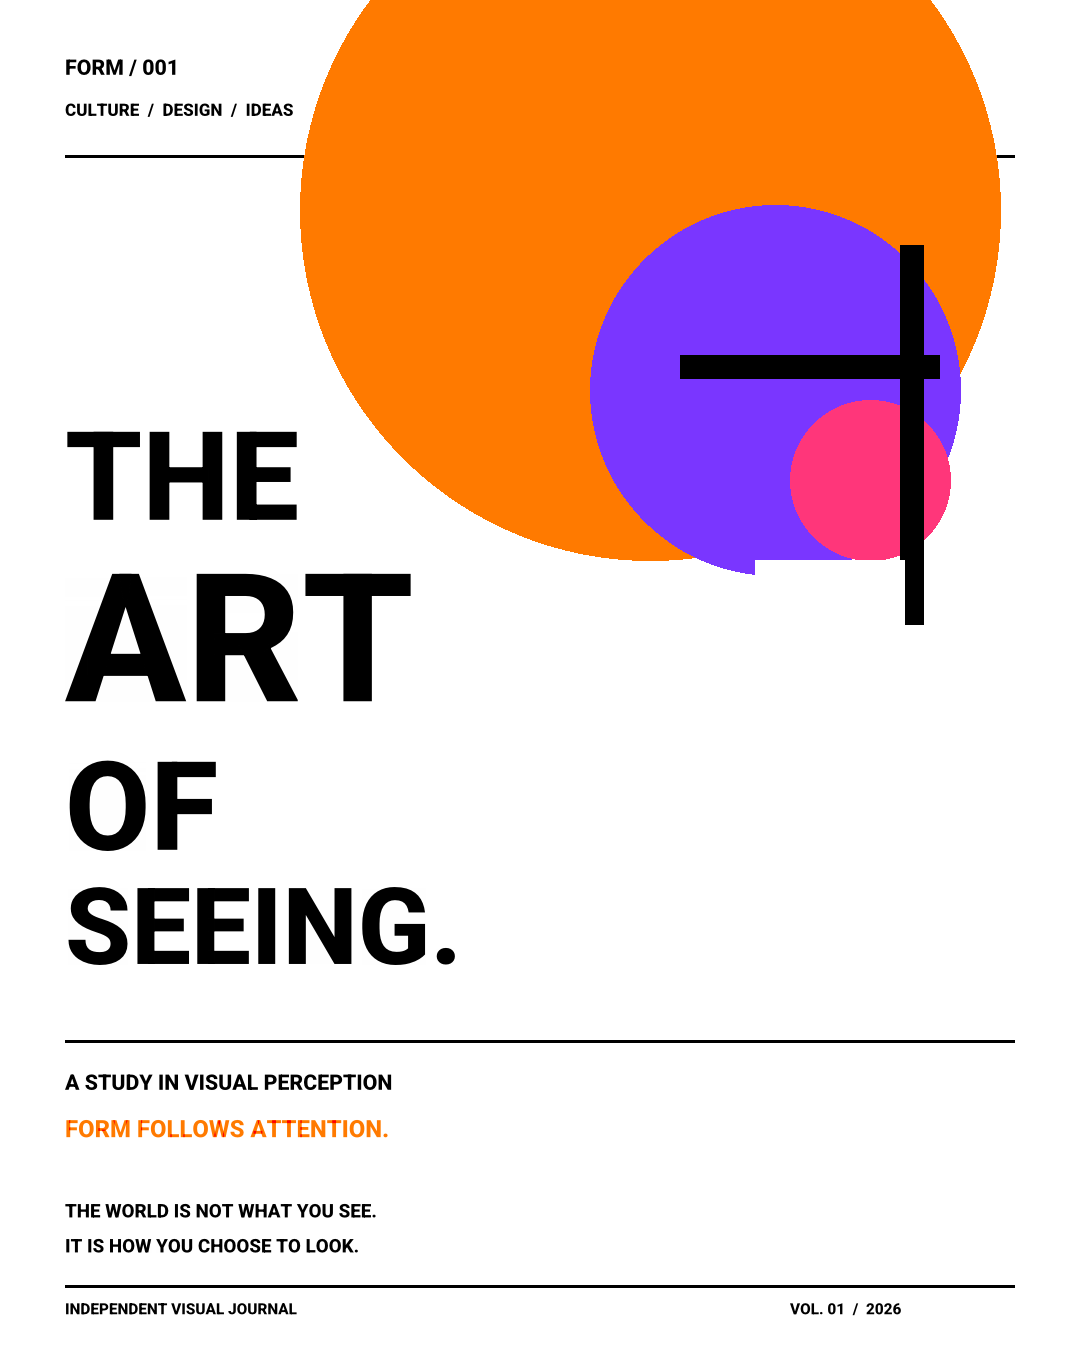
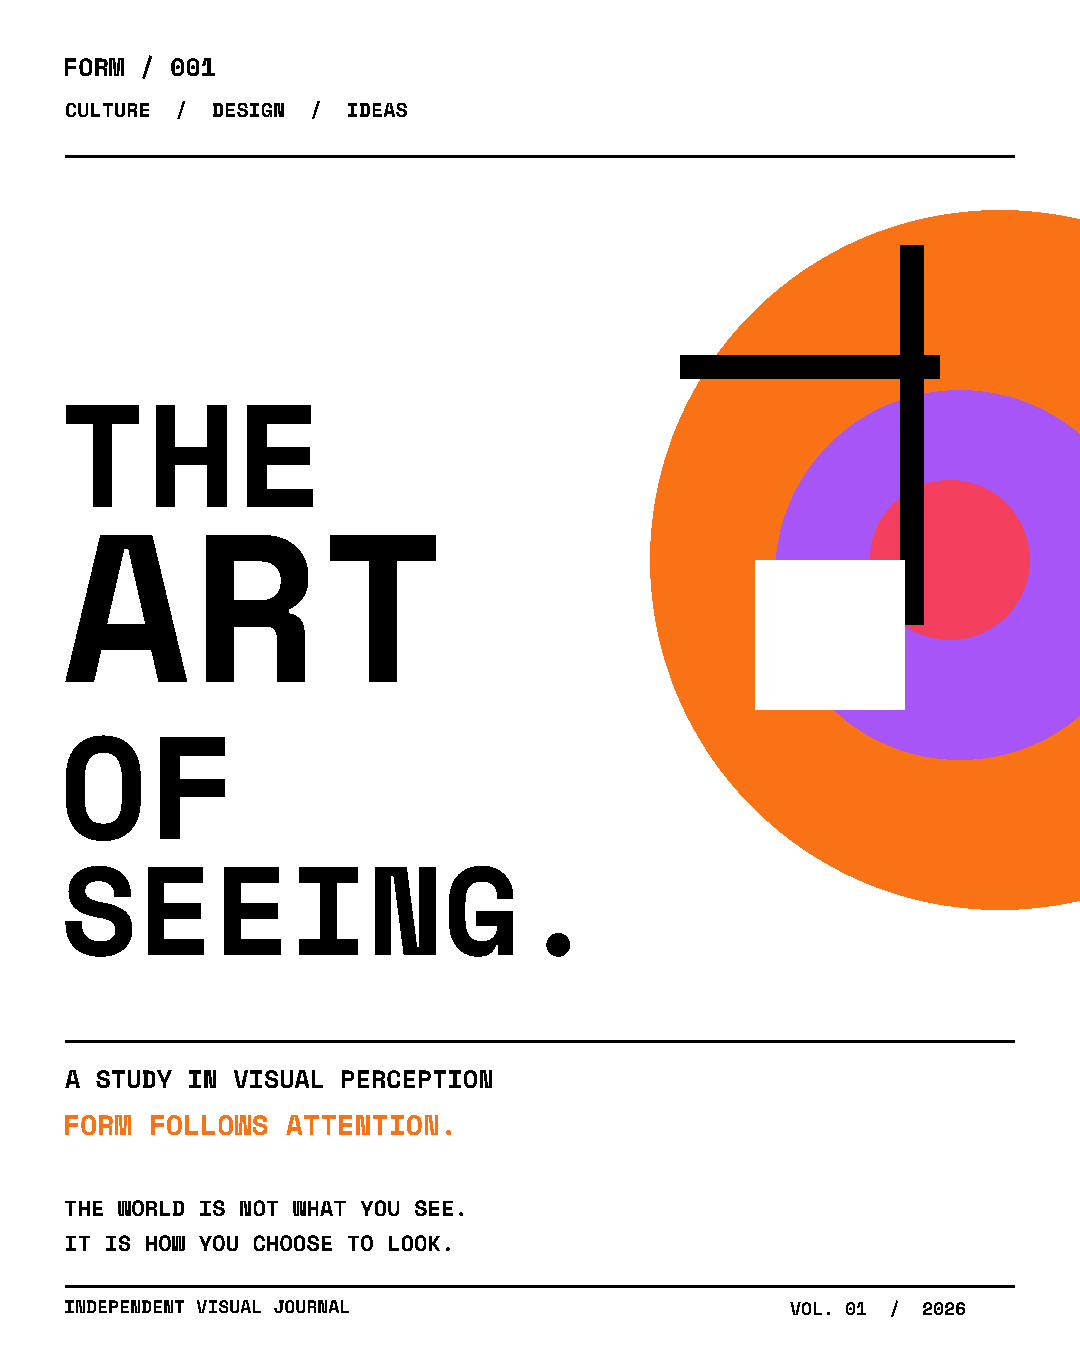
Tighten path flattening tolerance
Also remove the unused test4 binary target

diff --git a/src/graphic.rs b/src/graphic.rs
@@ -458,7 +458,7 @@ fn path_to_edges(commands: Vec<PathCommand>) -> Vec<((f32, f32), (f32, f32))> {
                 ) {
                     let distance_between_anchor_and_line =
                         distance_between_point_and_ray((anchor_x, anchor_y), (x0, y0), (x1, y1));
-                    if distance_between_anchor_and_line < 0.1 || depth == 10 {
+                    if distance_between_anchor_and_line < 0.0001 || depth == 10 {
                         edges.push(((x0, y0), (x1, y1)));
                         return;
                     }
@@ -520,7 +520,7 @@ fn path_to_edges(commands: Vec<PathCommand>) -> Vec<((f32, f32), (f32, f32))> {
                     edges: &mut Vec<((f32, f32), (f32, f32))>,
                 ) {
                     let max_depth = 5;
-                    let tolerance = 0.1;
+                    let tolerance = 0.0001;
 
                     let distance_1 = distance_between_point_and_ray((ax1, ay1), (x0, y0), (x1, y1));
                     let distance_2 = distance_between_point_and_ray((ax2, ay2), (x0, y0), (x1, y1));
